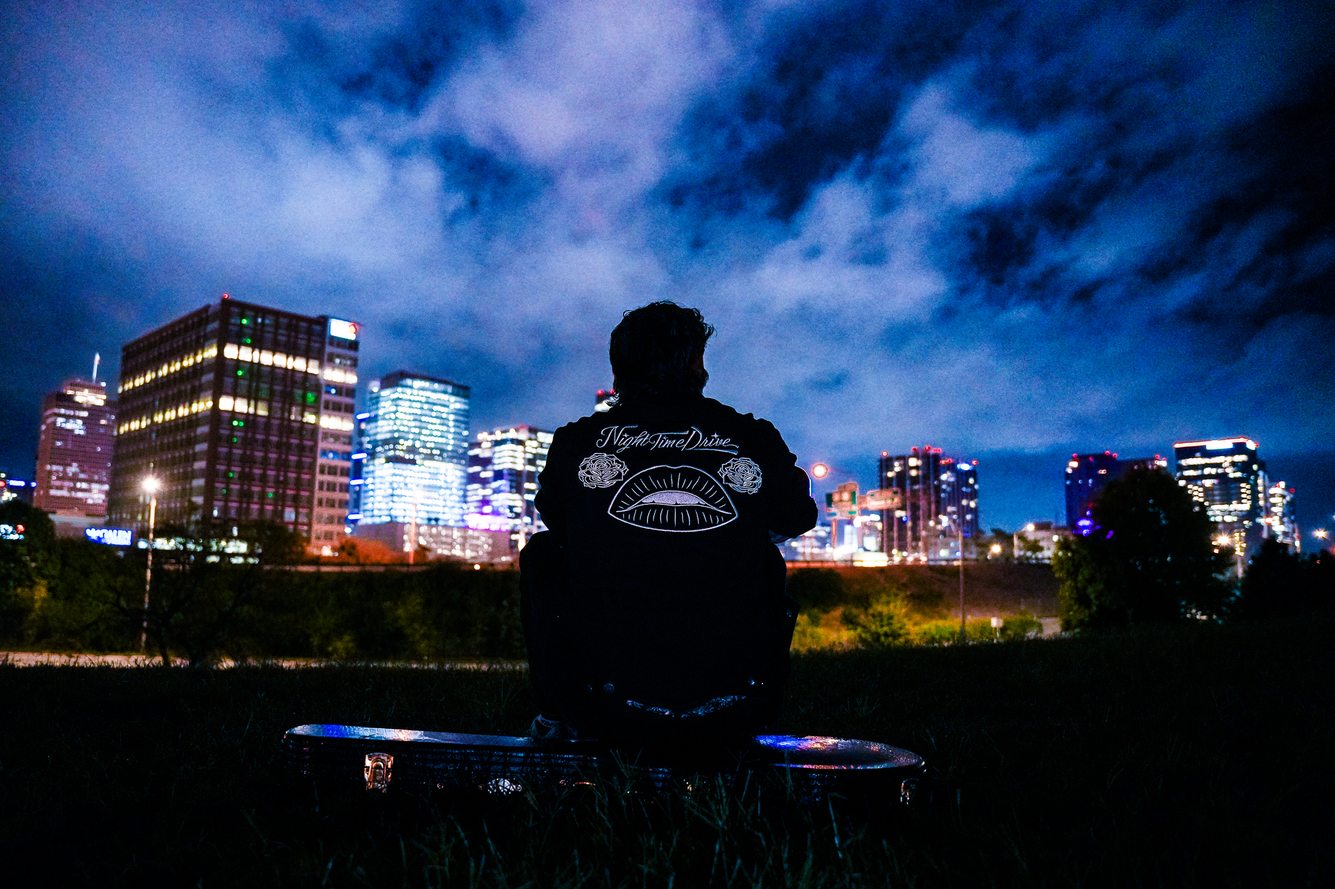
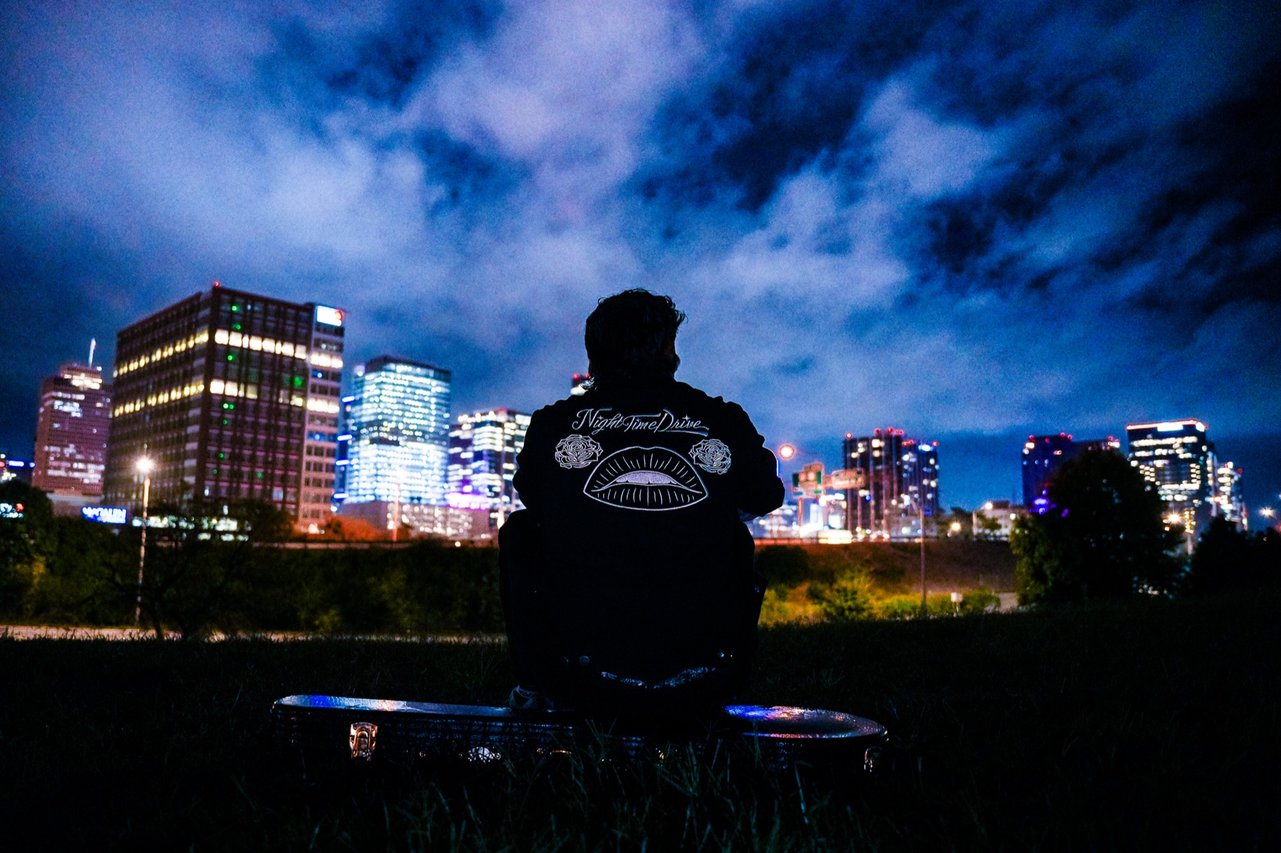
Compress background images — 83 MB → 3.2 MB total
Santa Fe: 38MB→795KB, LJ Studio: 29MB→341KB,
LILT artwork: 12MB→1.3MB, Band Pic: 3MB→791KB.
Convert PNGs to JPEG, update HTML references.

diff --git a/index.html b/index.html
@@ -497,7 +497,7 @@
     ===================== */
     #bio {
       position: relative;
-      background-image: url('Brand_Assets/Pictures/LJ and J Dell Studio Pic.png');
+      background-image: url('Brand_Assets/Pictures/LJ and J Dell Studio Pic.jpg');
       background-size: cover;
       background-position: center 25%;
     }
@@ -922,7 +922,7 @@
 
       <div class="music-grid">
 
-        <div class="music-card" style="background-image: url('Brand_Assets/Pictures/Like It Like That-4.png');" data-spotify="https://open.spotify.com/track/7omfoTBckQbAjqes67RX1j">
+        <div class="music-card" style="background-image: url('Brand_Assets/Pictures/Like It Like That-4.jpg');" data-spotify="https://open.spotify.com/track/7omfoTBckQbAjqes67RX1j">
           <div class="music-card-overlay">
             <div class="audio-player-wrap">
               <p class="audio-player-label">Preview</p>
